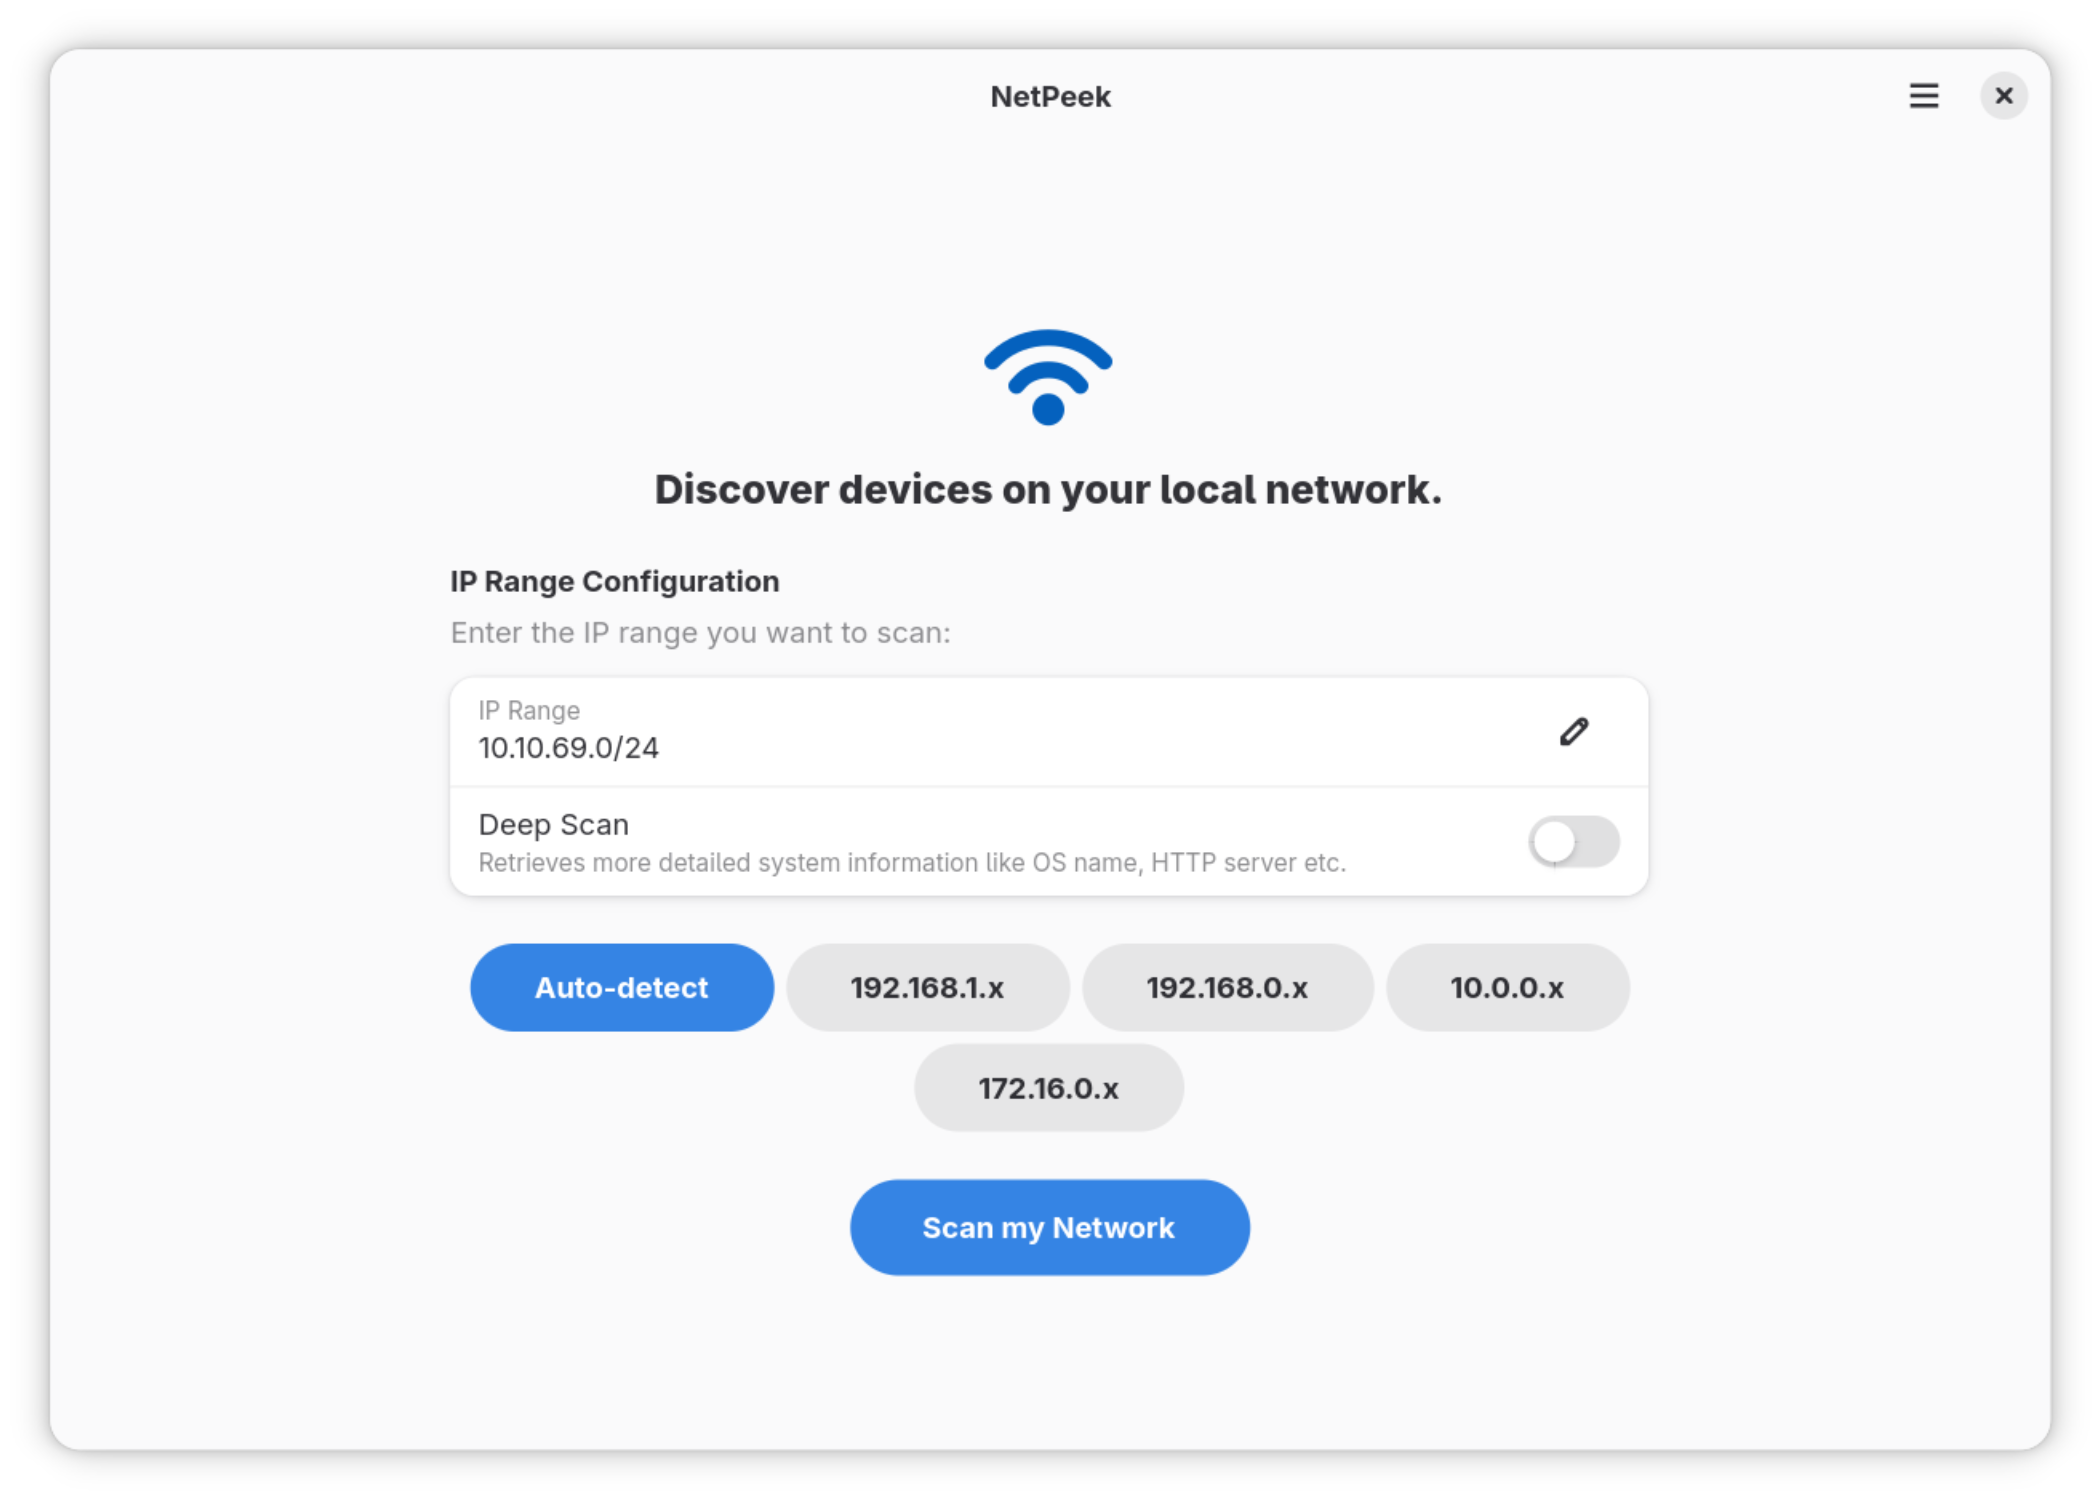
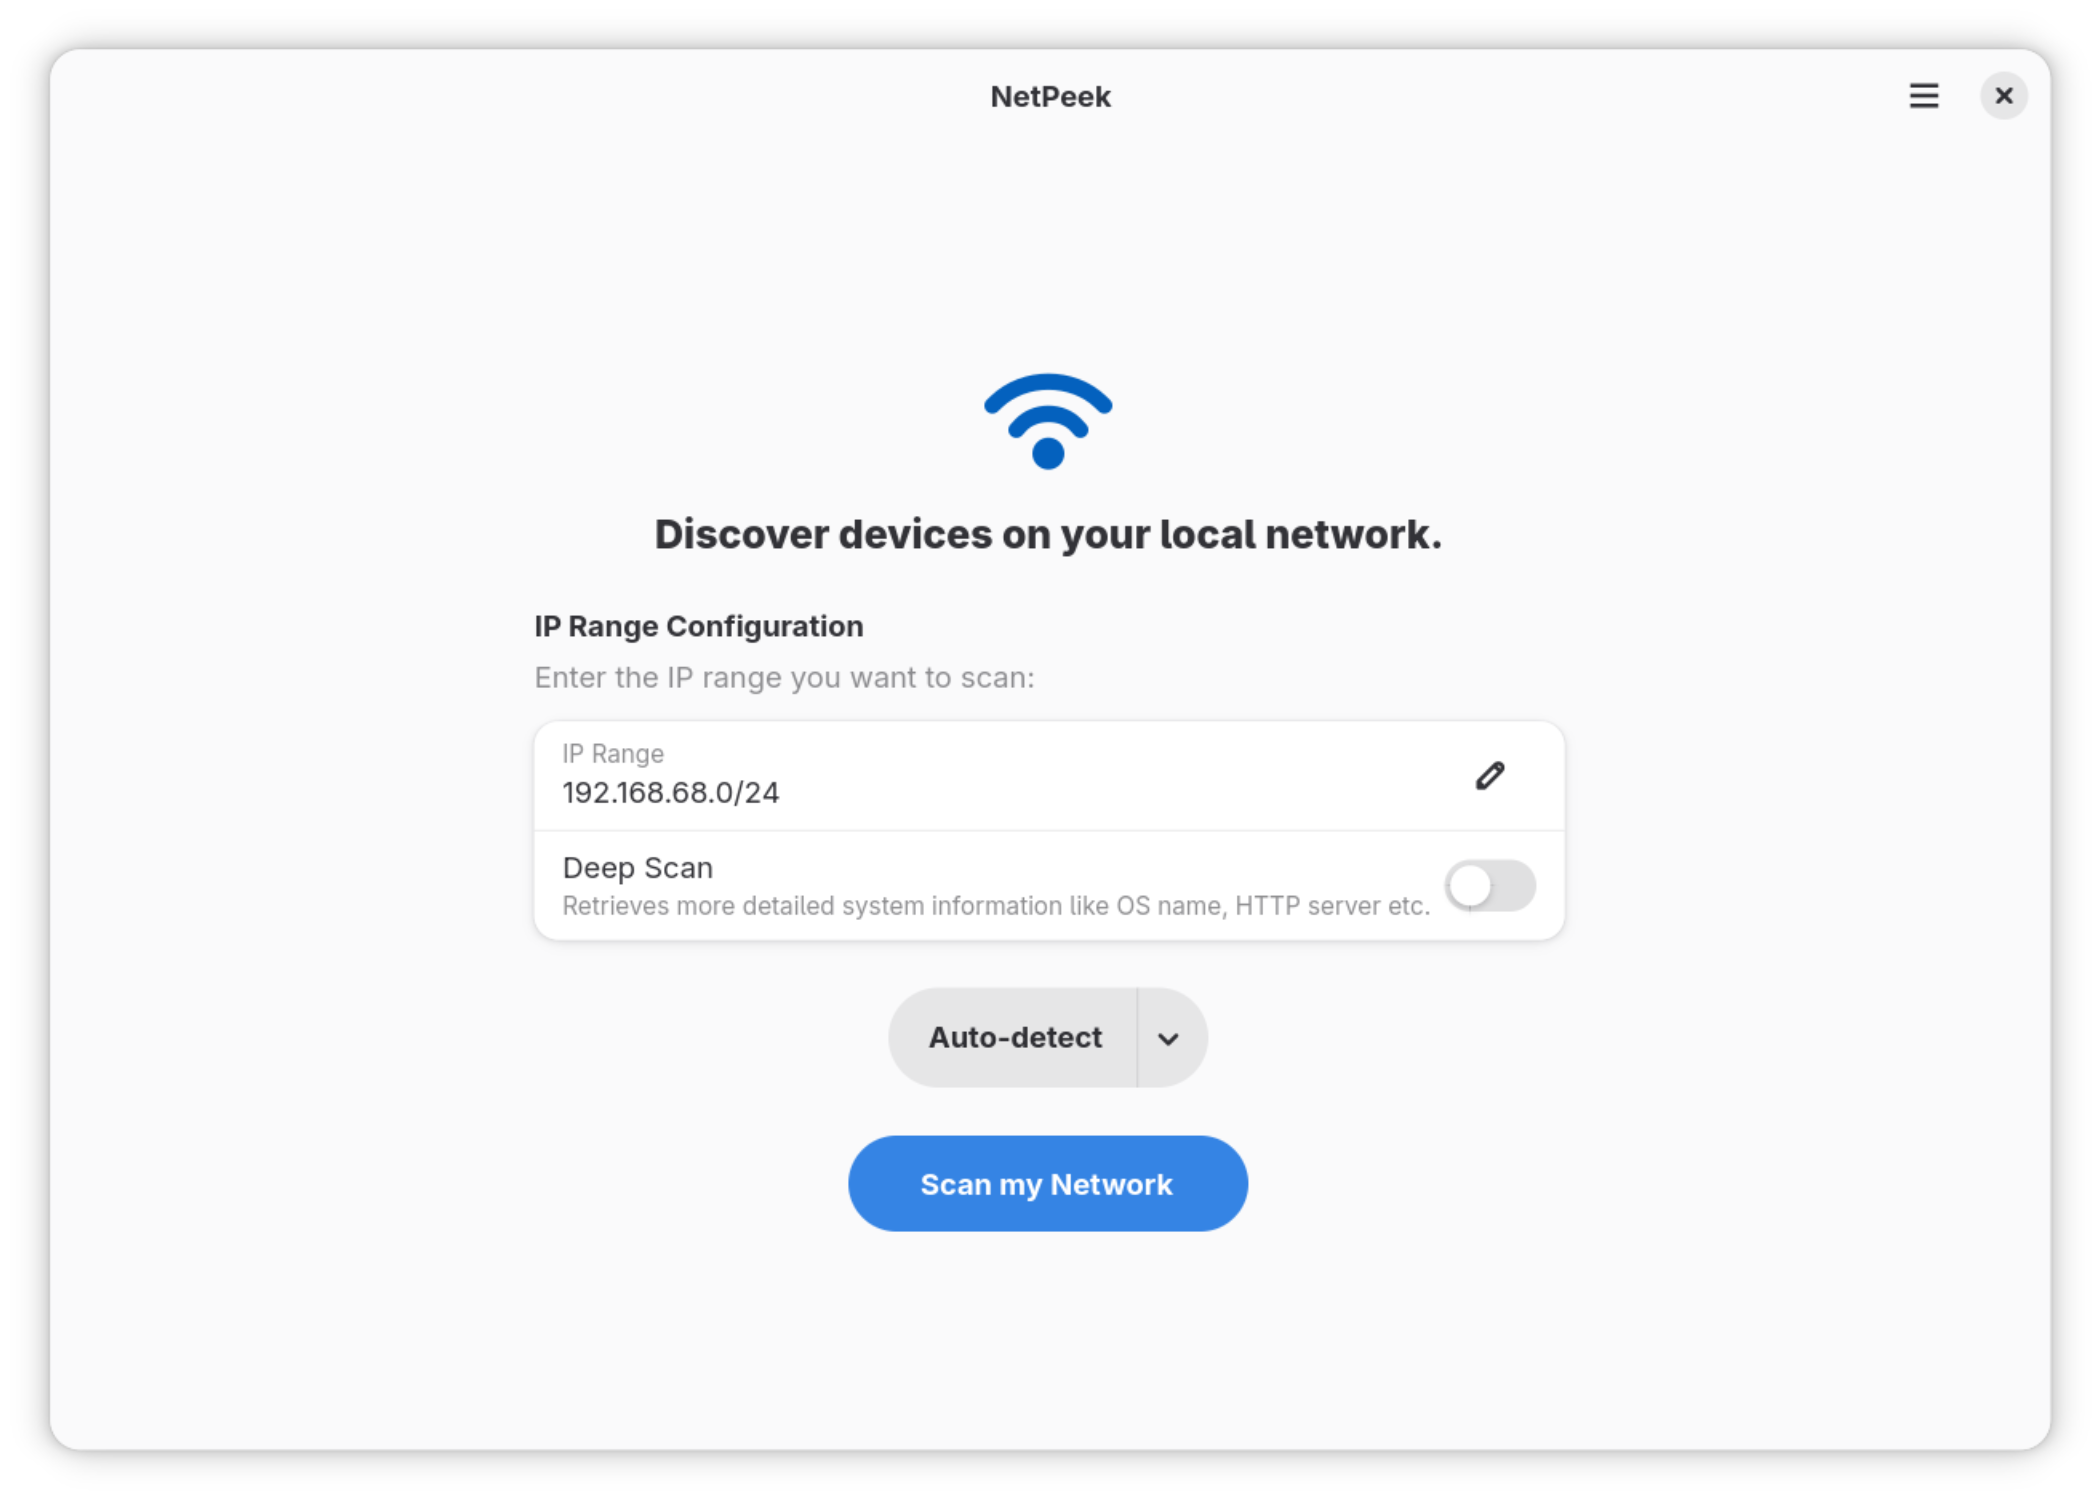
Merge IP presets into a single button
All IP presets which were initially contained in their own individual pill shaped button are now merged into a single button with a dropdown to select any one of the built-in IP presets. These preferences are restored on re-launch.

diff --git a/src/gtk/style.css b/src/gtk/style.css
@@ -53,3 +53,26 @@ flowbox.device-grid > flowboxchild:active {
   color: @accent_fg_color;
   border-radius: 9999px;
 }
+
+.preset-split {
+  min-height: 40px;
+  min-width: 160px;
+}
+
+.preset-split > button {
+  min-height: 40px;
+  border-radius: 9999px 0 0 9999px;
+  padding-left: 16px;
+  padding-right: 12px;
+}
+
+.preset-split > menubutton {
+  border-radius: 0 9999px 9999px 0;
+}
+
+.preset-split > menubutton > button {
+  min-height: 40px;
+  border-radius: 0 9999px 9999px 0;
+  padding-left: 8px;
+  padding-right: 12px;
+}

diff --git a/src/pages.py b/src/pages.py
@@ -27,7 +27,7 @@ gi.require_version('Gtk', '4.0')
 gi.require_version('Adw', '1')
 from gi.repository import Gtk, Adw, Gio, GLib, Gdk, GObject
 
-from .widgets import DeviceCard, PresetButton, ThemeSelector, ToastMixin
+from .widgets import DeviceCard, ThemeSelector, ToastMixin
 from .scanner import NetworkScanner
 from .models import Device
 from . import storage
@@ -85,12 +85,26 @@ class HomePage(ToastMixin, Adw.NavigationPage):
 
         self.setup_presets()
 
+        # Restore the last active preset
+        saved_preset = self.settings.get_string('last-preset')
+        if saved_preset:
+            target = "auto" if saved_preset == "auto" else saved_preset
+            for preset in self._PRESETS:
+                if (preset["range"] is None and target == "auto") or preset["range"] == target:
+                    self._active_preset = preset
+                    self.preset_button.set_label(preset["label"])
+                    self.preset_button.set_tooltip_text(_(preset["desc"]))
+                    self._rebuild_preset_menu()
+                    break
+
         # Bind deep scan switch to GSettings
         self.deep_scan_row.set_active(self.settings.get_boolean('deep-scan'))
         self.deep_scan_row.connect('notify::active', self._on_deep_scan_toggled)
 
         last_range = self.settings.get_string('last-ip-range')
-        if last_range:
+        if self._active_preset["range"] is None:
+            self.auto_detect_network()
+        elif last_range:
             self.ip_entry_row.set_text(last_range)
         else:
             detected_range = NetworkScanner.get_local_ip_range()
@@ -121,25 +135,55 @@ class HomePage(ToastMixin, Adw.NavigationPage):
     def connect_results_page(self, results_page):
         self.results_page = results_page
 
+    @staticmethod
+    def _preset_short_label(preset_range):
+        octets = preset_range.split("/")[0].split(".")
+        prefix_len = int(preset_range.split("/")[1]) // 8
+        octets[prefix_len:] = ["x"] * (4 - prefix_len)
+        return ".".join(octets)
+
+    _PRESETS = [
+        {"label": "Auto-detect", "range": None, "desc": "Automatically detect your local network"},
+        {"label": _preset_short_label("192.168.1.0/24"), "range": "192.168.1.0/24", "desc": "Home Network (192.168.1.x)"},
+        {"label": _preset_short_label("192.168.0.0/24"), "range": "192.168.0.0/24", "desc": "Home Network (192.168.0.x)"},
+        {"label": _preset_short_label("10.0.0.0/24"), "range": "10.0.0.0/24", "desc": "Corporate (10.0.0.x)"},
+        {"label": _preset_short_label("172.16.0.0/24"), "range": "172.16.0.0/24", "desc": "Private (172.16.0.x)"},
+    ]
+
     def setup_presets(self):
-        auto_button = Gtk.Button()
-        auto_button.set_label(_("Auto-detect"))
-        auto_button.set_tooltip_text(_("Automatically detect your local network"))
-        auto_button.add_css_class("pill")
-        auto_button.add_css_class("suggested-action")
-        auto_button.connect('clicked', self.on_auto_detect_clicked)
-        self.preset_box.append(auto_button)
+        self._active_preset = self._PRESETS[0]
 
-        presets = [
-            ("192.168.1.0/24", _("Home Network (192.168.1.x)")),
-            ("192.168.0.0/24", _("Home Network (192.168.0.x)")),
-            ("10.0.0.0/24", _("Corporate (10.0.0.x)")),
-            ("172.16.0.0/24", _("Private (172.16.0.x)"))
-        ]
+        self.preset_menu_box = Gtk.Box(orientation=Gtk.Orientation.VERTICAL)
 
-        for preset_range, tooltip in presets:
-            preset_button = PresetButton(preset_range, tooltip, self.on_preset_clicked)
-            self.preset_box.append(preset_button)
+        self.preset_popover = Gtk.Popover()
+        self.preset_popover.set_child(self.preset_menu_box)
+
+        self.preset_button = Adw.SplitButton()
+        self.preset_button.add_css_class("preset-split")
+        self.preset_button.set_label(_("Auto-detect"))
+        self.preset_button.set_tooltip_text(_("Automatically detect your local network"))
+        self.preset_button.set_popover(self.preset_popover)
+        self.preset_button.connect("clicked", self.on_preset_button_clicked)
+
+        self.preset_box.append(self.preset_button)
+        self._rebuild_preset_menu()
+
+    def _rebuild_preset_menu(self):
+        child = self.preset_menu_box.get_first_child()
+        while child is not None:
+            next_child = child.get_next_sibling()
+            self.preset_menu_box.remove(child)
+            child = next_child
+
+        for preset in self._PRESETS:
+            if preset is self._active_preset:
+                continue
+            btn = Gtk.Button(label=preset["label"])
+            btn.set_halign(Gtk.Align.FILL)
+            btn.add_css_class("flat")
+            btn.add_css_class("menu-item")
+            btn.connect("clicked", self._on_preset_row_clicked, preset)
+            self.preset_menu_box.append(btn)
 
     def auto_detect_network(self):
         detected_range = NetworkScanner.get_local_ip_range()
@@ -167,14 +211,30 @@ class HomePage(ToastMixin, Adw.NavigationPage):
     def on_ip_range_apply(self, _widget):
         """When the apply button is clicked or Enter is pressed in the IP entry"""
         self.validate_ip_range()
+        self.settings.set_string('last-ip-range', self.ip_entry_row.get_text().strip())
         self._clear_focus()
         self.ip_entry_row.set_position(-1)
 
-    def on_auto_detect_clicked(self, button):
-        self.auto_detect_network()
+    def on_preset_button_clicked(self, button):
+        if self._active_preset["range"] is None:
+            self.auto_detect_network()
+        else:
+            self.ip_entry_row.set_text(self._active_preset["range"])
+        self.settings.set_string('last-preset', self._active_preset["range"] or "auto")
+        self.settings.set_string('last-ip-range', self.ip_entry_row.get_text().strip())
 
-    def on_preset_clicked(self, button, preset_range):
-        self.ip_entry_row.set_text(preset_range)
+    def _on_preset_row_clicked(self, row_button, preset):
+        self._active_preset = preset
+        if preset["range"] is None:
+            self.auto_detect_network()
+        else:
+            self.ip_entry_row.set_text(preset["range"])
+        self.preset_button.set_label(preset["label"])
+        self.preset_button.set_tooltip_text(_(preset["desc"]))
+        self._rebuild_preset_menu()
+        self.preset_popover.popdown()
+        self.settings.set_string('last-preset', preset["range"] or "auto")
+        self.settings.set_string('last-ip-range', self.ip_entry_row.get_text().strip())
 
     def validate_ip_range(self):
         ip_range = self.ip_entry_row.get_text().strip()

diff --git a/src/widgets.py b/src/widgets.py
@@ -205,21 +205,3 @@ class ThemeSelector(Gtk.Box):
                 "app.color-scheme", GLib.Variant("s", self.schemes[button]))
 
 
-class PresetButton(Gtk.Button):
-    """Custom preset button for IP ranges"""
-
-    def __init__(self, preset_range, tooltip_text, callback=None):
-        super().__init__()
-
-        ip_address = preset_range.split("/")[0].split(".")
-        prefix_length = int(preset_range.split("/")[1]) // 8
-        ip_address[prefix_length:] = ["x" for _ in range(4 - prefix_length)]
-
-        self.set_label(".".join(ip_address))
-        self.set_tooltip_text(_(tooltip_text))
-        self.add_css_class("pill")
-
-        self.preset_range = preset_range
-
-        if callback:
-            self.connect('clicked', callback, preset_range)
